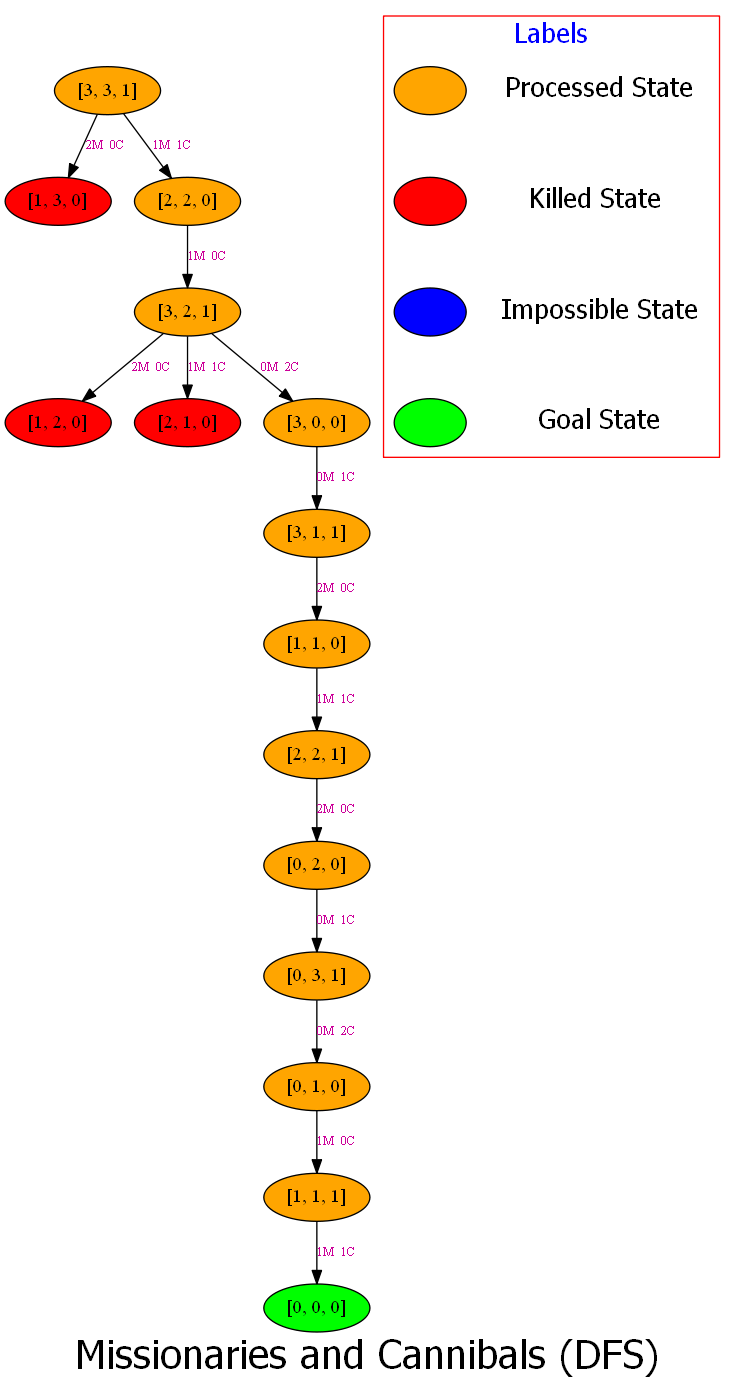
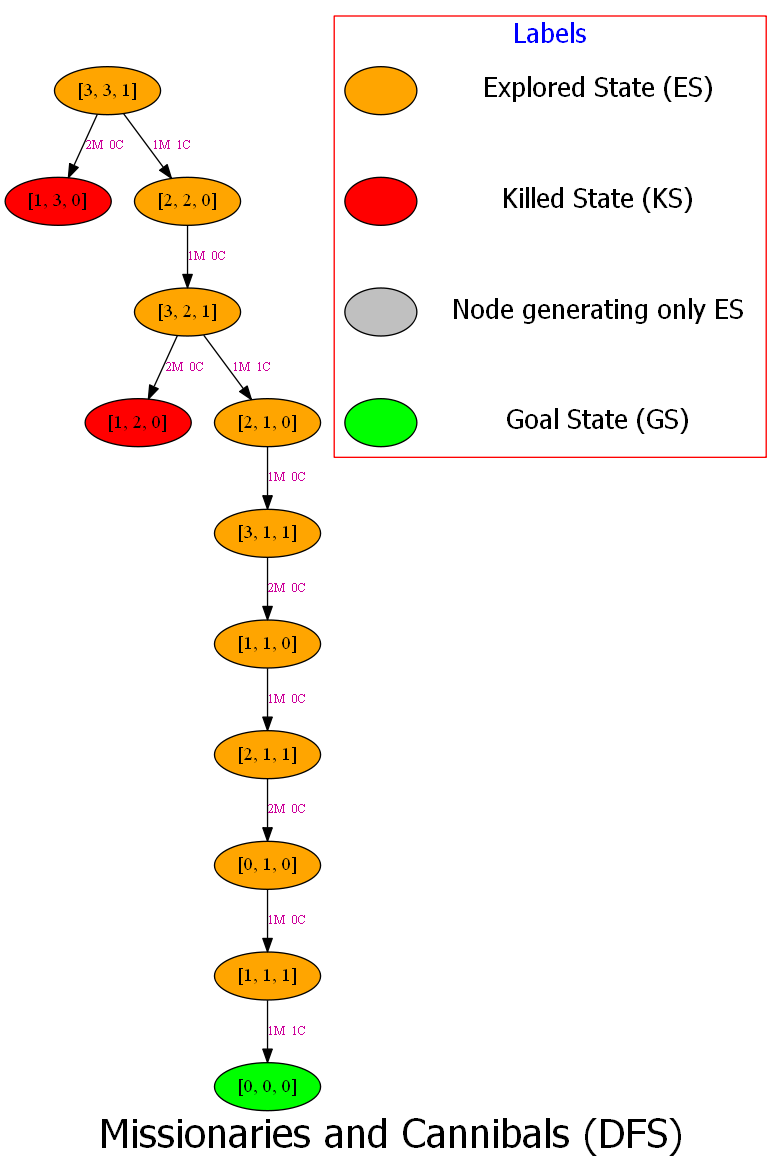
Colored BFS!

Changed region(s): [[0.0, 0.0, 1.0, 1.0]]

diff --git a/node.py b/node.py
@@ -45,8 +45,8 @@ class Node:
         if cannibals > missionaries > 0:
             return True
         # Check for the other side
-        if cannibals < missionaries < 3:
-            return True
+        # if cannibals < missionaries < 3:
+        #     return True
 
     def generate_child(self):
         # children = []
@@ -75,85 +75,99 @@ class Node:
 
         if boat_position == 1:
             """0M 1C"""
-            action = [0, 1]
-            new_state_0, new_state_1, new_state_2 = missionary - action[0], cannibal - action[1], 0
-            new_state = [new_state_0, new_state_1, new_state_2]
-            new_node = Node(new_state, self, action, depth)
-            # if check_validity(new_state):
-            children.append(new_node)
+            if 1 <= cannibal <= 3:
+                action = [0, 1]
+                new_state_0, new_state_1, new_state_2 = missionary - action[0], cannibal - action[1], 0
+                new_state = [new_state_0, new_state_1, new_state_2]
+                new_node = Node(new_state, self, action, depth)
+                # if check_validity(new_state):
+                children.append(new_node)
 
             """0M 2C"""
-            action = [0, 2]
-            new_state_0, new_state_1, new_state_2 = missionary - action[0], cannibal - action[1], 0
-            new_state = [new_state_0, new_state_1, new_state_2]
-            new_node = Node(new_state, self, action, depth)
-            # if check_validity(new_state):
-            children.append(new_node)
+            if 2 <= cannibal <= 3:
+                action = [0, 2]
+                new_state_0, new_state_1, new_state_2 = missionary - action[0], cannibal - action[1], 0
+                new_state = [new_state_0, new_state_1, new_state_2]
+                new_node = Node(new_state, self, action, depth)
+                # if check_validity(new_state):
+                children.append(new_node)
 
             """1M 0C"""
-            action = [1, 0]
-            new_state_0, new_state_1, new_state_2 = missionary - action[0], cannibal - action[1], 0
-            new_state = [new_state_0, new_state_1, new_state_2]
-            new_node = Node(new_state, self, action, depth)
-            # if check_validity(new_state):
-            children.append(new_node)
+            if 1 <= missionary <= 3:
+                action = [1, 0]
+                new_state_0, new_state_1, new_state_2 = missionary - action[0], cannibal - action[1], 0
+                new_state = [new_state_0, new_state_1, new_state_2]
+                new_node = Node(new_state, self, action, depth)
+                # if check_validity(new_state):
+                children.append(new_node)
 
             """1M 1C"""
-            action = [1, 1]
-            new_state_0, new_state_1, new_state_2 = missionary - action[0], cannibal - action[1], 0
-            new_state = [new_state_0, new_state_1, new_state_2]
-            new_node = Node(new_state, self, action, depth)
-            # if check_validity(new_state):
-            children.append(new_node)
+            if 1 <= missionary <= 3 and 1 <= cannibal <= 3:
+                action = [1, 1]
+                new_state_0, new_state_1, new_state_2 = missionary - action[0], cannibal - action[1], 0
+                new_state = [new_state_0, new_state_1, new_state_2]
+                new_node = Node(new_state, self, action, depth)
+                # if check_validity(new_state):
+                children.append(new_node)
 
             """2M OC"""
-            action = [2, 0]
-            new_state_0, new_state_1, new_state_2 = missionary - action[0], cannibal - action[1], 0
-            new_state = [new_state_0, new_state_1, new_state_2]
-            new_node = Node(new_state, self, action, depth)
-            # if check_validity(new_state):
-            children.append(new_node)
+            if 2 <= missionary <= 3:
+                action = [2, 0]
+                new_state_0, new_state_1, new_state_2 = missionary - action[0], cannibal - action[1], 0
+                new_state = [new_state_0, new_state_1, new_state_2]
+                new_node = Node(new_state, self, action, depth)
+                # if check_validity(new_state):
+                children.append(new_node)
 
         if boat_position == 0:
+
+            missionaryR = 3 - missionary
+            cannibalR = 3 - cannibal
+
             """0M 1C"""
-            action = [0, 1]
-            new_state_0, new_state_1, new_state_2 = missionary + action[0], cannibal + action[1], 1
-            new_state = [new_state_0, new_state_1, new_state_2]
-            new_node = Node(new_state, self, action, depth)
-            # if check_validity(new_state):
-            children.append(new_node)
+            if 1 <= cannibalR <= 3:
+                action = [0, 1]
+                new_state_0, new_state_1, new_state_2 = missionary + action[0], cannibal + action[1], 1
+                new_state = [new_state_0, new_state_1, new_state_2]
+                new_node = Node(new_state, self, action, depth)
+                # if check_validity(new_state):
+                children.append(new_node)
 
             """0M 2C"""
-            action = [0, 2]
-            new_state_0, new_state_1, new_state_2 = missionary + action[0], cannibal + action[1], 1
-            new_state = [new_state_0, new_state_1, new_state_2]
-            new_node = Node(new_state, self, action, depth)
-            # if check_validity(new_state):
-            children.append(new_node)
+            if 2 <= cannibalR <= 3:
+                action = [0, 2]
+                new_state_0, new_state_1, new_state_2 = missionary + action[0], cannibal + action[1], 1
+                new_state = [new_state_0, new_state_1, new_state_2]
+                new_node = Node(new_state, self, action, depth)
+                # if check_validity(new_state):
+                children.append(new_node)
 
             """1M 0C"""
-            action = [1, 0]
-            new_state_0, new_state_1, new_state_2 = missionary + action[0], cannibal + action[1], 1
-            new_state = [new_state_0, new_state_1, new_state_2]
-            new_node = Node(new_state, self, action, depth)
-            # if check_validity(new_state):
-            children.append(new_node)
+            if 1 <= missionaryR <= 3:
+                action = [1, 0]
+                new_state_0, new_state_1, new_state_2 = missionary + action[0], cannibal + action[1], 1
+                new_state = [new_state_0, new_state_1, new_state_2]
+                new_node = Node(new_state, self, action, depth)
+                # if check_validity(new_state):
+                children.append(new_node)
 
             """1M 1C"""
-            action = [1, 1]
-            new_state_0, new_state_1, new_state_2 = missionary + action[0], cannibal + action[1], 1
-            new_state = [new_state_0, new_state_1, new_state_2]
-            new_node = Node(new_state, self, action, depth)
-            # if check_validity(new_state):
-            children.append(new_node)
+            if 1 <= missionaryR <= 3 and 1 <= cannibalR <= 3:
+                action = [1, 1]
+                new_state_0, new_state_1, new_state_2 = missionary + action[0], cannibal + action[1], 1
+                new_state = [new_state_0, new_state_1, new_state_2]
+                new_node = Node(new_state, self, action, depth)
+                # if check_validity(new_state):
+                children.append(new_node)
 
             """2M 0C"""
-            action = [2, 0]
-            new_state_0, new_state_1, new_state_2 = missionary + action[0], cannibal + action[1], 1
-            new_state = [new_state_0, new_state_1, new_state_2]
-            new_node = Node(new_state, self, action, depth)
-            # if check_validity(new_state):
-            children.append(new_node)
+            if 2 <= missionaryR <= 3:
+                action = [2, 0]
+                new_state_0, new_state_1, new_state_2 = missionary + action[0], cannibal + action[1], 1
+                new_state = [new_state_0, new_state_1, new_state_2]
+                new_node = Node(new_state, self, action, depth)
+                # if check_validity(new_state):
+                children.append(new_node)
 
         return children
 
@@ -167,22 +181,3 @@ class Node:
         # solution = solution[:-1]
         solution.reverse()
         return solution
-
-
-def check_validity(node):
-    """
-    if node.boatPos==0:
-        return (node.missionary>=node.cannibal)&(node.cannibal>=0)&(node.missionary>=0)
-    if node.boatPos==1:
-        return (node.missionary<=3)&(node.cannibal<=3)&(node.missionary>=node.cannibal)&(3-node.missionary<=3-node.cannibal)
-    """
-
-    missionary = node[0]
-    cannibal = node[1]
-    if missionary >= 0 and (3 - missionary) >= 0 \
-            and cannibal >= 0 and (3 - cannibal) >= 0 \
-            and (missionary == 0 or missionary >= cannibal) \
-            and ((3 - missionary) == 0 or (3 - missionary) >= (3 - cannibal)):
-        return True
-    else:
-        return False

diff --git a/BFS_MC.py b/BFS_MC.py
@@ -15,13 +15,9 @@ def bfs(initial_state, mode="BFS"):
     explored = []
     killed = []
 
-    print("The Starting node is \nDepth = %d" % start_node.depth)
-    print(str(start_node.state))
-
     while frontier:
-        node = frontier.pop(0)
-        print("\nThe node selected to expand is\nDepth = " + str(node.depth) + "\n" + str(node.state) + "\n")
 
+        node = frontier.pop(0)
         explored.append(node.state)
         graph.add_node(node.graph_node)
 
@@ -32,16 +28,14 @@ def bfs(initial_state, mode="BFS"):
             graph.add_edge(
                 pydot.Edge(node.parent.graph_node, node.graph_node, label=str(diff[0]) + "M  " + str(diff[1]) + "C",
                            fontsize='10', fontcolor='#cc0099'))
-        children = node.generate_child()
+
         if not node.is_killed():
-            print("The children nodes of this node are", end="")
+            children = node.generate_child()
 
             for child in children:
                 if child.state not in explored:
-                    print("\nDepth=%d" % child.depth)
-                    print(str(child.state))
                     if child.goal_test():
-                        print("Which is the goal state\n")
+
                         graph.add_node(child.graph_node)
                         diff = np.subtract(child.parent.state, child.state)
                         if child.parent.state[2] == 0:
@@ -50,13 +44,12 @@ def bfs(initial_state, mode="BFS"):
                         graph.add_edge(pydot.Edge(child.parent.graph_node, child.graph_node, fontsize='10',
                                                   label=str(diff[0]) + "M  " + str(diff[1]) + "C", fontcolor="#cc0099"))
 
-                        # colour all leaves blue
                         leafs = {n.get_name(): True for n in graph.get_nodes()}
                         for e in graph.get_edge_list():
                             leafs[e.get_source()] = False
                         for leaf in leafs:
                             if leafs[leaf] and str(leaf) not in killed and str(leaf) != "\"[0, 0, 0]\"":
-                                node = pydot.Node(leaf, style="filled", fillcolor="blue")
+                                node = pydot.Node(leaf, style="filled", fillcolor="gray")
                                 graph.add_node(node)
 
                         draw_legend(graph)

diff --git a/DrawLegend.py b/DrawLegend.py
@@ -5,20 +5,20 @@ def draw_legend(graph):
     graphlegend = pydot.Cluster(graph_name="legend", label="Labels", fontsize="20", color="red",
                                 fontcolor="blue", style="filled", fillcolor="white", fontname='Arsenal')
 
-    legend1 = pydot.Node('Processed State', shape="plaintext", fontname='Arsenal', fontsize="20")
+    legend1 = pydot.Node('Explored State (ES)', shape="plaintext", fontname='Arsenal', fontsize="20")
     graphlegend.add_node(legend1)
-    legend2 = pydot.Node("Killed State ", shape="plaintext", fontname='Arsenal', fontsize="20")
+    legend2 = pydot.Node("Killed State (KS)", shape="plaintext", fontname='Arsenal', fontsize="20")
     graphlegend.add_node(legend2)
-    legend3 = pydot.Node('Impossible State', shape="plaintext", fontname='Arsenal', fontsize="20")
+    legend3 = pydot.Node('Node generating only ES', shape="plaintext", fontname='Arsenal', fontsize="20")
     graphlegend.add_node(legend3)
-    legend4 = pydot.Node('Goal State', shape="plaintext", fontname='Arsenal', fontsize="20")
+    legend4 = pydot.Node('Goal State (GS)', shape="plaintext", fontname='Arsenal', fontsize="20")
     graphlegend.add_node(legend4)
 
     node1 = pydot.Node("1", style="filled", fillcolor="orange", label="")
     graphlegend.add_node(node1)
     node2 = pydot.Node("2", style="filled", fillcolor="red", label="")
     graphlegend.add_node(node2)
-    node3 = pydot.Node("3", style="filled", fillcolor="blue", label="")
+    node3 = pydot.Node("3", style="filled", fillcolor="gray", label="")
     graphlegend.add_node(node3)
     node4 = pydot.Node("4", style="filled", fillcolor="green", label="")
     graphlegend.add_node(node4)
